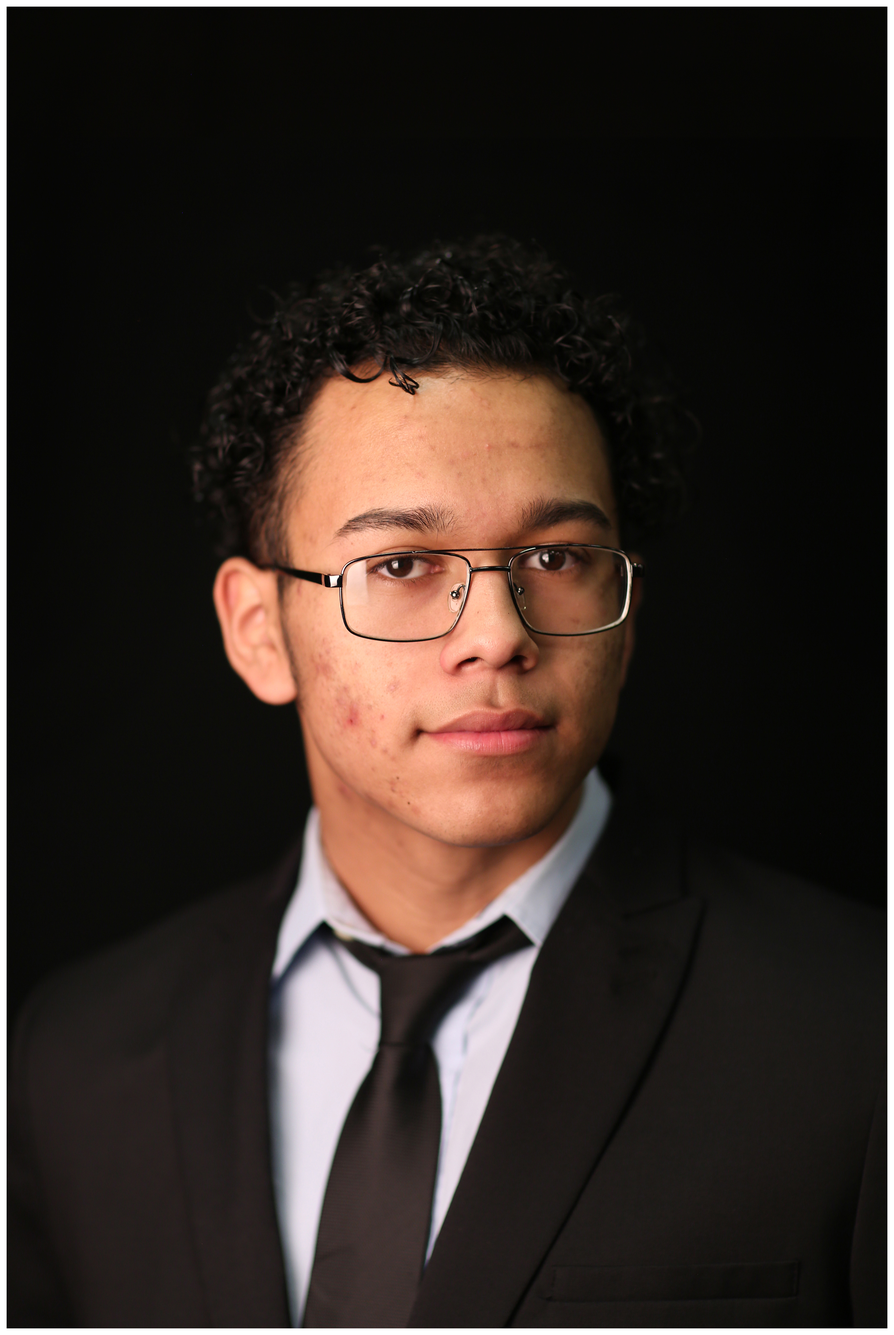
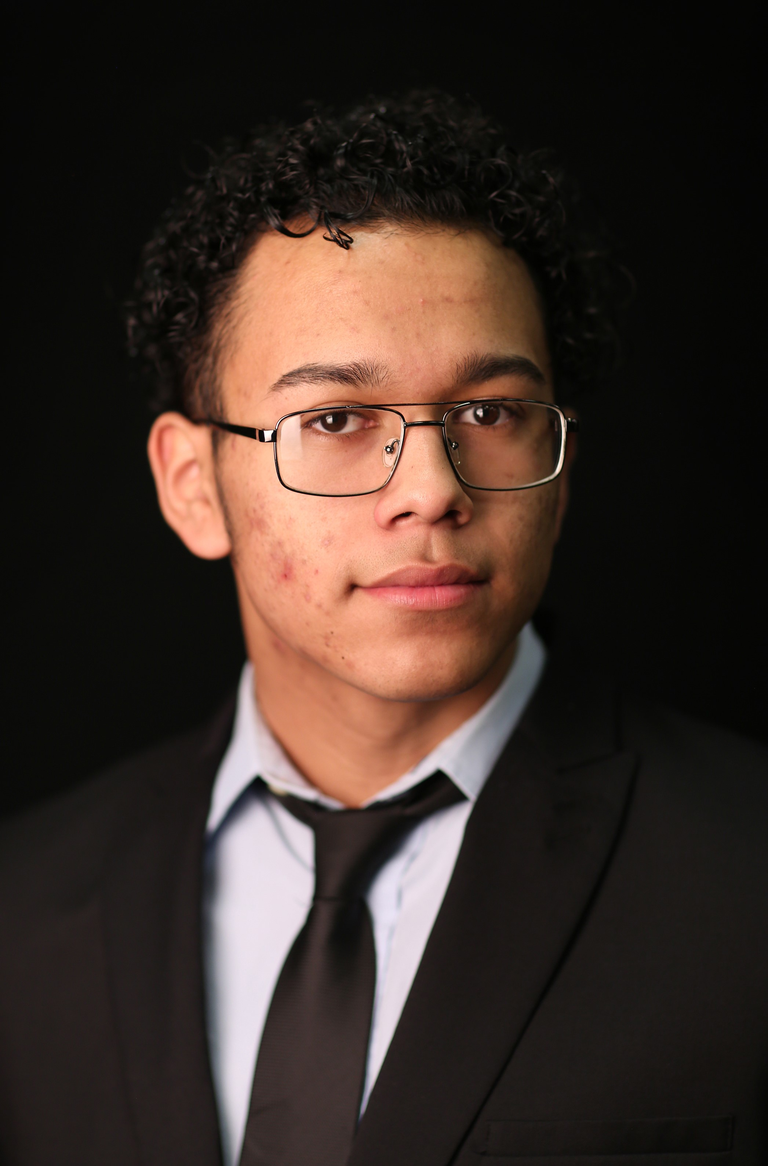
Sector adjustment

Changed region(s): [[0.0, 0.0, 1.0, 1.0], [0.528, 0.8102, 0.559, 0.8414]]

diff --git a/css/styles.css b/css/styles.css
@@ -31,7 +31,7 @@ header {
 	background-color: #CC0000;
 }
 :root{
-  --darkPink: #e3c9c9;
+  --darkPink: #c1a7a7;
   --lightPink: #f4e7e7;
   --medPink: #eedbdb;
   --grey: #cecbcb;
@@ -54,6 +54,7 @@ img {
   max-height: 300px;
   border: 2px var(--darkPink);
   border-radius: 1em;
+  margin: 10px;
 }
 
 h1 {
@@ -62,14 +63,13 @@ h1 {
 
 /*for website sections*/
 .sect {
-  max-height:300px;
   display: flex;
-  flex-direction: column;
+  flex-direction: row;
   flex-wrap: wrap;
-  align-content: space-evenly;
+  align-content: space-between;
   width: 80%;
   background-color:var(--grey);
-  margin: 0 auto;
+  margin: 1em auto;
   border: 2px solid var(--darkPink);
   border-radius: 1em;
   text-align: center;

diff --git a/index.html b/index.html
@@ -51,7 +51,14 @@
     <!--START Content-->
     <div class="sect">
         <div>
-            <img alt="Erik" src="res/headshot.JPG"/>
+            <img alt="Erik" src="res/erikHome.jpg"/>
+        </div>
+        <div><h1>Defeat is not the worst of failures. Not to have tried is the true failure – George Edward </h1></div>
+    </div>
+
+    <div class="sect">
+        <div>
+            <img alt="Erik" src="res/erikHome.jpg"/>
         </div>
         <div><h1>Defeat is not the worst of failures. Not to have tried is the true failure – George Edward </h1></div>
     </div>
